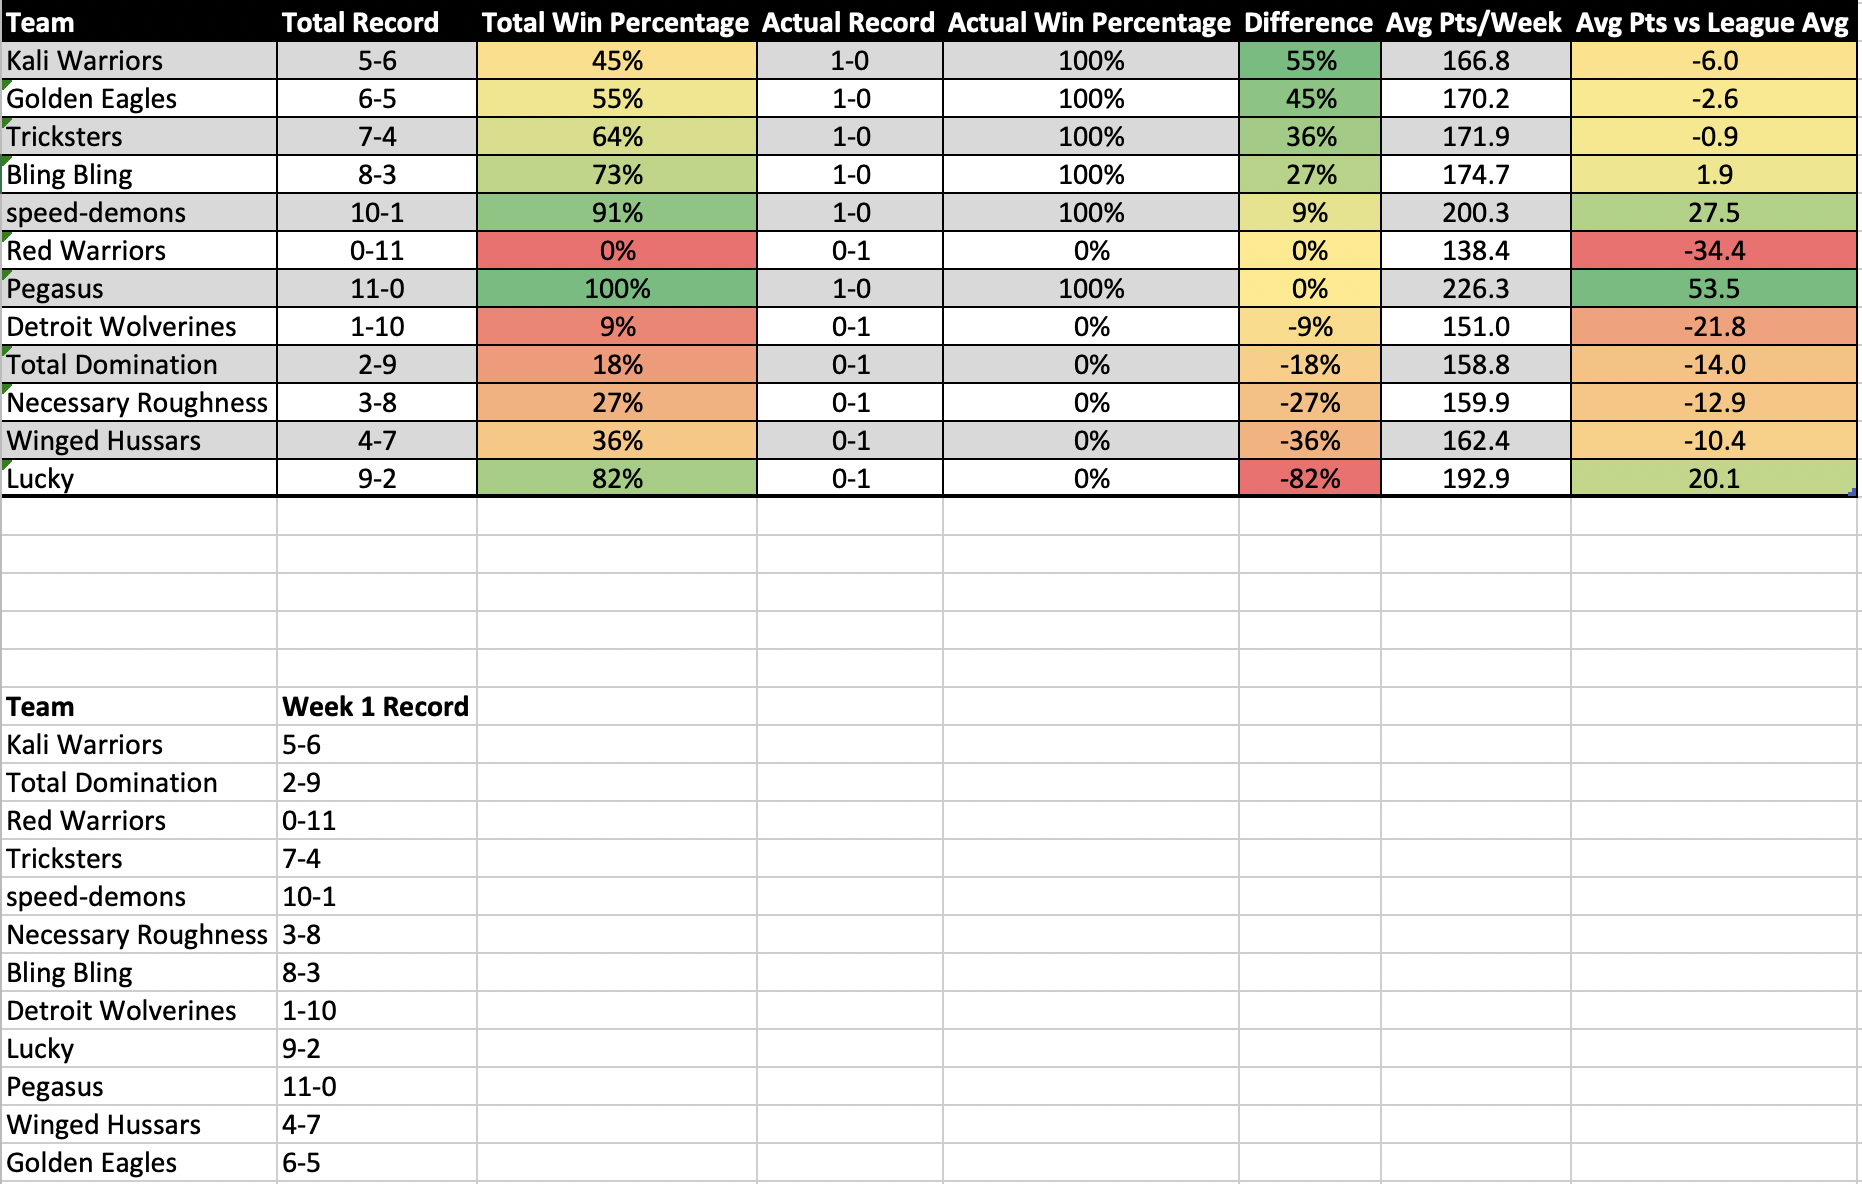
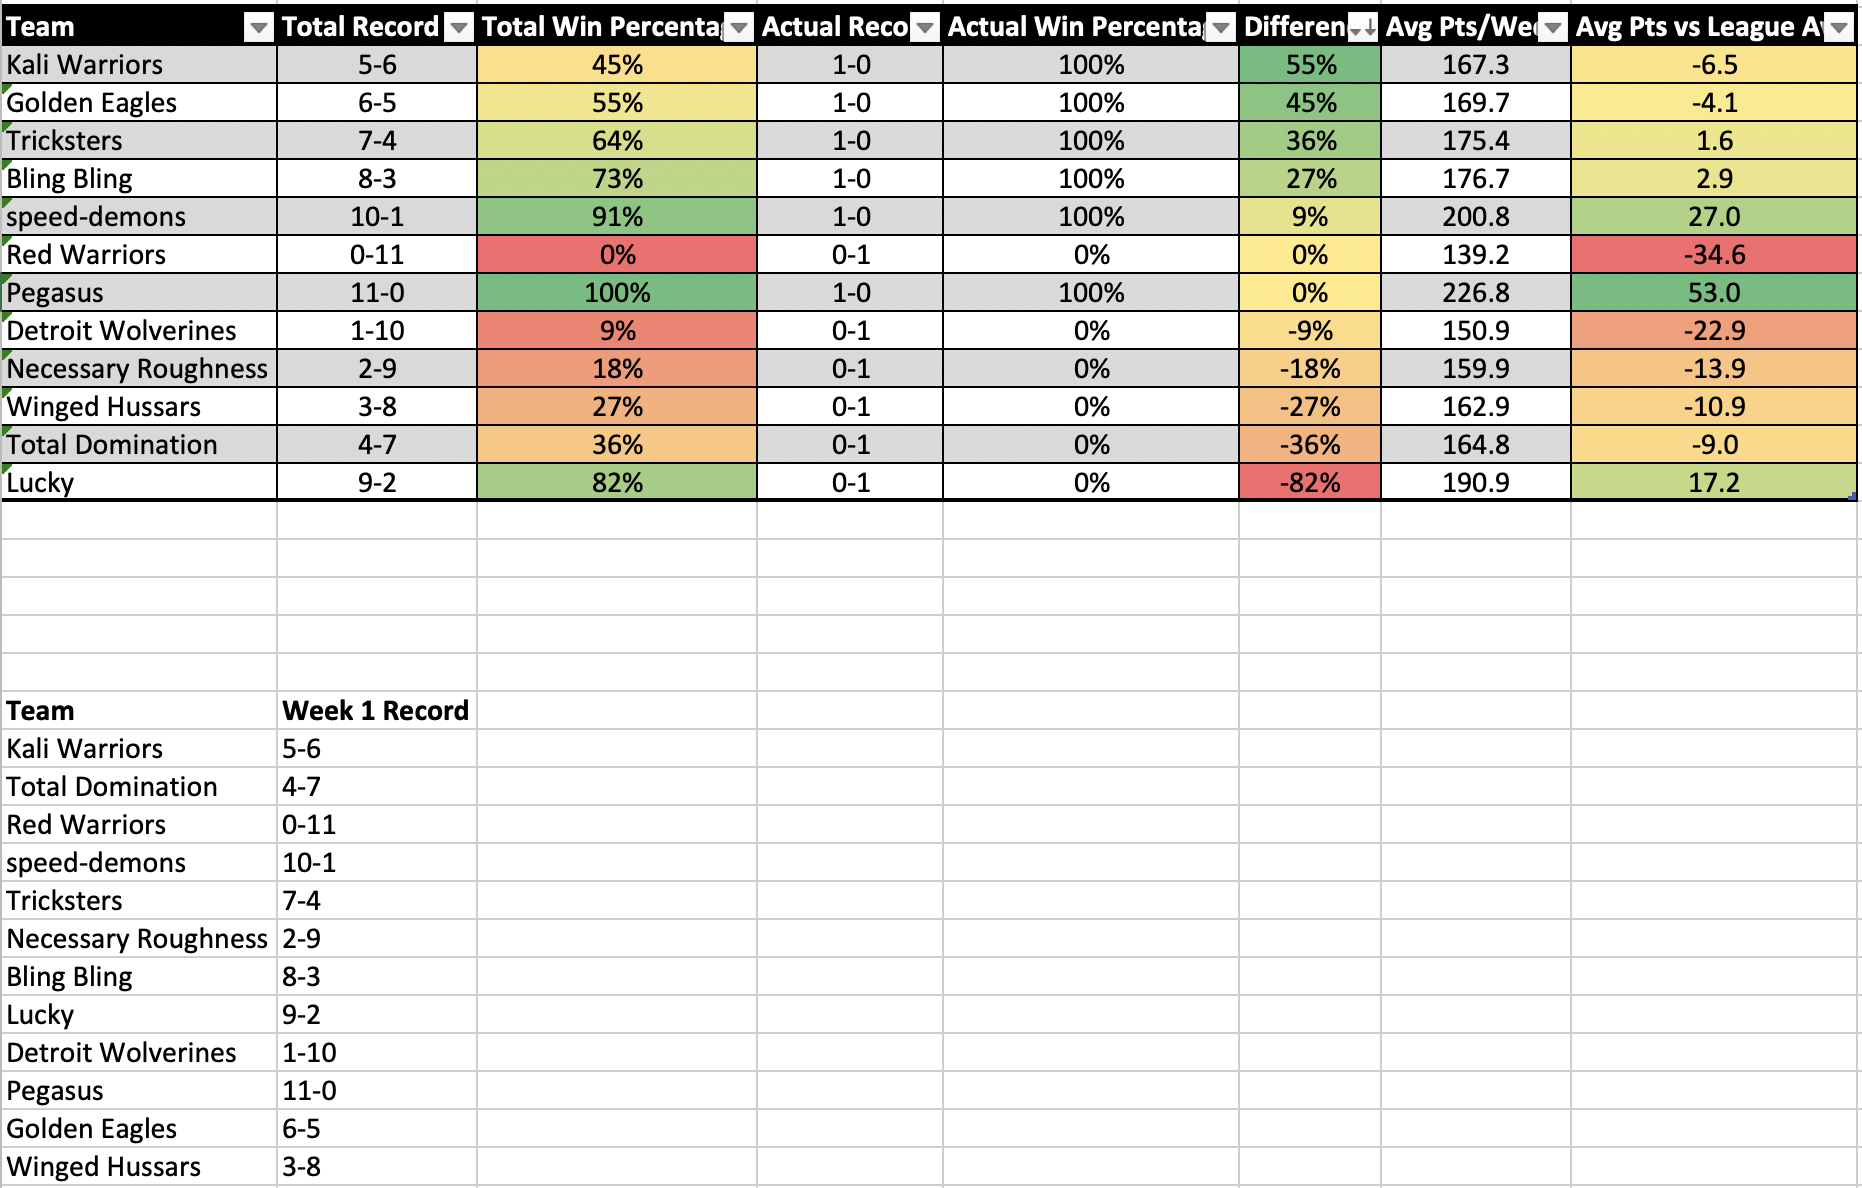
Updated newsletter and standings from stat corrections

Changed region(s): [[0.0, 0.0, 1.0, 1.0], [0.1557, 0.9375, 0.1869, 0.9688]]

diff --git a/_posts/2019-09-11-week-2-newsletter.md b/_posts/2019-09-11-week-2-newsletter.md
@@ -40,18 +40,18 @@ Here are some definitions for some potentially obscure columns.
 
 | TEAM NAME           | POWER RANK | CHANGE | RECORD | OVERALL WINS | PPG         | R.O.S. ROSTER |
 | ------------------- | ---------- | ------ | ------ | ------------ | ----------- | ------------- |
-| speed-demons        | #1         | 7      | 1-0    | 10-1         | #2, 200ppg  | #1            |
-| Bling Bling         | #2         | 1      | 1-0    | 8-3          | #4, 175ppg  | #3            |
-| Pegasus             | #3         | 7      | 1-0    | 11-0         | #1, 226ppg  | #9            |
+| speed-demons        | #1         | 7      | 1-0    | 10-1         | #2, 201ppg  | #1            |
+| Bling Bling         | #2         | 1      | 1-0    | 8-3          | #4, 177ppg  | #3            |
+| Pegasus             | #3         | 7      | 1-0    | 11-0         | #1, 227ppg  | #9            |
 | Kali Warriors       | #4         | -3     | 1-0    | 5-6          | #7, 167ppg  | #2            |
-| Tricksters          | #5         | -3     | 1-0    | 7-4          | #5, 172ppg  | #8            |
-| Lucky               | #6         | 1      | 0-1    | 9-2          | #3, 193ppg  | #6            |
+| Tricksters          | #5         | -3     | 1-0    | 7-4          | #5, 175ppg  | #8            |
+| Lucky               | #6         | 1      | 0-1    | 9-2          | #3, 191ppg  | #6            |
 | Golden Eagles       | #7         | 5      | 1-0    | 6-5          | #6, 170ppg  | #11           |
-| Necessary Roughness | #8         | 1      | 0-1    | 3-8          | #9, 160ppg  | #5            |
-| Total Domination    | #9         | -5     | 0-1    | 2-9          | #10, 159ppg | #4            |
-| Winged Hussars      | #10        | -5     | 0-1    | 4-7          | #8, 162ppg  | #10           |
-| Detroit Wolverines  | #11        | -5     | 0-1    | 1-10         | #11, 151ppg | #7            |
-| Red Warriors        | #12        | -1     | 0-1    | 0-11         | #12, 138ppg | #12           |
+| Total Domination    | #8         | -4     | 0-1    | 4-7          | #8, 165ppg  | #4            |
+| Necessary Roughness | #9         | 0      | 0-1    | 2-9          | #10, 160ppg | #5            |
+| Detroit Wolverines  | #10        | -4     | 0-1    | 1-10         | #11, 151ppg | #7            |
+| Winged Hussars      | #11        | -6     | 0-1    | 3-8          | #9, 163ppg  | #10           |
+| Red Warriors        | #12        | -1     | 0-1    | 0-11         | #12, 139ppg | #12           |
 
 ### Power Rankings Over Time
 
@@ -70,7 +70,7 @@ Here are some definitions for some potentially obscure columns.
       {
         "borderColor": "#EAD79E",
         "fill": false,
-        "data":[4,4,9],
+        "data":[4,4,8],
         "label":"Total Domination"
       },
       {
@@ -94,7 +94,7 @@ Here are some definitions for some potentially obscure columns.
       {
         "borderColor": "#006B41",
         "fill": false,
-        "data":[9,9,8],
+        "data":[9,9,9],
         "label":"Necessary Roughness"
       },
       {
@@ -112,7 +112,7 @@ Here are some definitions for some potentially obscure columns.
       {
         "borderColor": "#B49483",
         "fill": false,
-        "data":[6,6,11],
+        "data":[6,6,10],
         "label":"Detroit Wolverines"
       },
       {
@@ -130,7 +130,7 @@ Here are some definitions for some potentially obscure columns.
       {
         "borderColor": "#620004",
         "fill": false,
-        "data":[5,5,10],
+        "data":[5,5,11],
         "label":"Winged Hussars"
       }
     ]
@@ -164,3 +164,31 @@ This table measures how "lucky" (or otherwise) your team is. It takes your **ove
 Hilariously enough, the unluckiest team this week/to date is Lucky. Despite scoring 20 points above the league average and putting up better points than 82% of their leaguemates, Lucky lost by playing the highest scoring team of the week.
 
 Feels bad man.
+
+---
+
+## Late Stat Correction Updates
+
+Sleeper had some late stat corrections come in that altered power rankings and luckiness for this week.
+
+### Power Ranking Changes
+
+- Total Domination
+  - #9 => #8
+- Necessary Roughness
+  - #8 => #9
+- Detroit Wolverines
+  - #11 => #10
+- Winged Hussars
+  - #10 => #11
+
+### Luckiness Changes
+
+The most noteworthy change here (and in PR) is to team overall records. Here are the changes to overall records:
+
+- Total Domination
+  - 2-9 => 4-7
+- Winged Hussars
+  - 4-7 => 3-8
+- Necessary Roughness
+  - 3-8 => 2-9

diff --git a/misc/standings.md b/misc/standings.md
@@ -27,10 +27,10 @@ Divisions ordered by the sum of points scored by each team.
 
 | Rank | Division Name    | Points Scored |
 | ---- | ---------------- | ------------- |
-| 1    | High Flyers      | 558.90        |
-| 2    | The Resistance   | 532.10        |
-| 3    | Division By Zero | 518.80        |
-| 4    | Cerberus         | 463.80        |
+| 1    | High Flyers      | 559.40        |
+| 2    | The Resistance   | 536.10        |
+| 3    | Division By Zero | 518.52        |
+| 4    | Cerberus         | 471.26        |
 
 ## Team Standings
 
@@ -42,32 +42,32 @@ Divisions ordered by the sum of points scored by each team.
 
 | Rank | Team Name                                                                                                                | Record | Points For |
 | ---- | ------------------------------------------------------------------------------------------------------------------------ | ------ | ---------- |
-| 1    | Kali Warriors <img width="40px" src="/misc/assets/svg/belt.svg" /> <img width="20px" src="/misc/assets/svg/award.svg" /> | 1-0    | 166.76     |
-| 2    | Total Domination                                                                                                         | 0-1    | 158.80     |
-| 3    | Red Warriors                                                                                                             | 0-1    | 138.24     |
+| 1    | Kali Warriors <img width="40px" src="/misc/assets/svg/belt.svg" /> <img width="20px" src="/misc/assets/svg/award.svg" /> | 1-0    | 167.26     |
+| 2    | Total Domination                                                                                                         | 0-1    | 164.80     |
+| 3    | Red Warriors                                                                                                             | 0-1    | 139.20     |
 
 ### The Resistance
 
 | Rank | Team Name           | Record | Points For |
 | ---- | ------------------- | ------ | ---------- |
-| 1    | speed-demons        | 1-0    | 200.28     |
-| 2    | Tricksters          | 1-0    | 171.92     |
+| 1    | speed-demons        | 1-0    | 200.78     |
+| 2    | Tricksters          | 1-0    | 175.42     |
 | 3    | Necessary Roughness | 0-1    | 159.90     |
 
 ### Division by Zero
 
 | Rank | Team Name          | Record | Points For |
 | ---- | ------------------ | ------ | ---------- |
-| 1    | Bling Bling        | 1-0    | 174.66     |
-| 2    | Lucky              | 0-1    | 192.94     |
-| 3    | Detroit Wolverines | 0-1    | 151.20     |
+| 1    | Bling Bling        | 1-0    | 176.66     |
+| 2    | Lucky              | 0-1    | 190.94     |
+| 3    | Detroit Wolverines | 0-1    | 150.92     |
 
 ### High Flyers
 
 | Rank | Team Name      | Record | Points For |
 | ---- | -------------- | ------ | ---------- |
-| 1    | Pegasus        | 1-0    | 226.26     |
-| 2    | Golden Eagles  | 1-0    | 170.22     |
-| 3    | Winged Hussars | 0-1    | 162.42     |
+| 1    | Pegasus        | 1-0    | 226.76     |
+| 2    | Golden Eagles  | 1-0    | 169.72     |
+| 3    | Winged Hussars | 0-1    | 162.92     |
 
 
